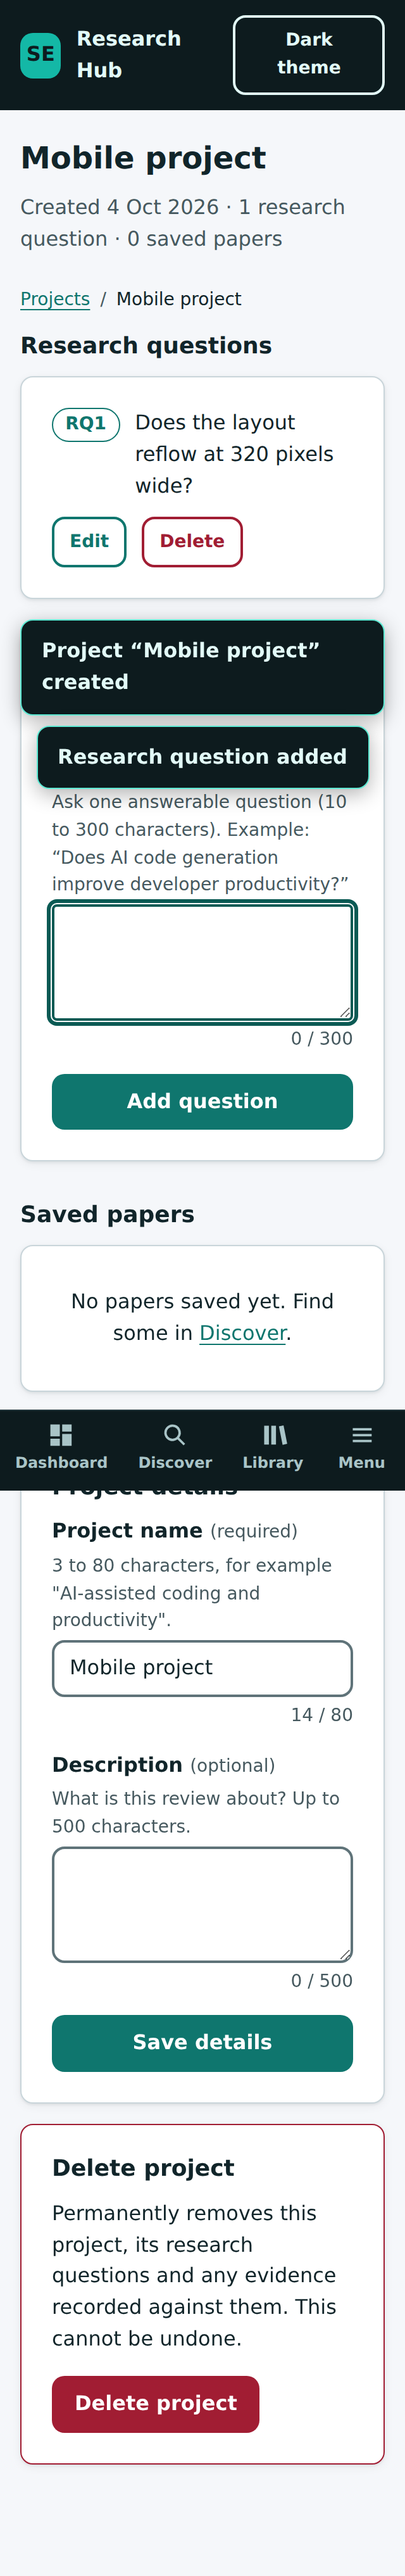
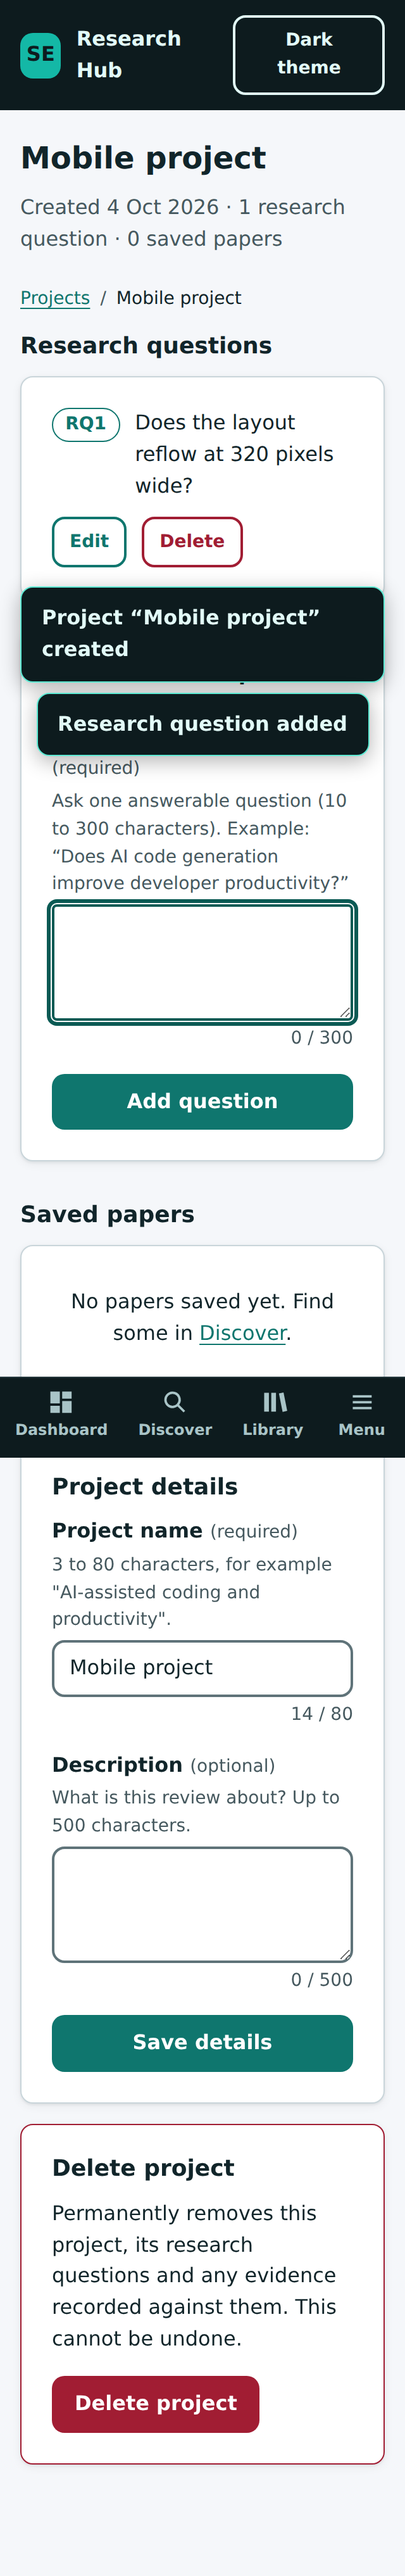
Set contact email for OpenAlex/Crossref polite pools
Claude-Session: https://claude.ai/code/session_014fmZhAkdtsc2RnaqydGcGn

diff --git a/js/config.js b/js/config.js
@@ -1,4 +1,4 @@
 /** Deployment settings. OpenAlex and Crossref both ask API users to identify themselves with an email
  *  address (the "polite pool" gives faster, more reliable responses). Set one here before deploying.
  *  It is sent as the `mailto` query parameter. Left blank, the app still works, just without the polite pool. */
-export const CONTACT_EMAIL = '';
+export const CONTACT_EMAIL = 'bubbyroller@gmail.com';
